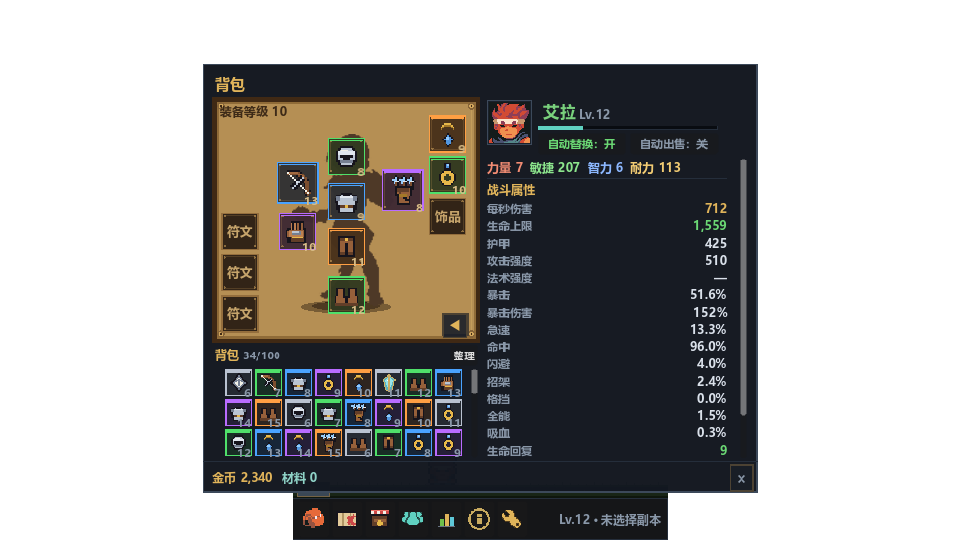
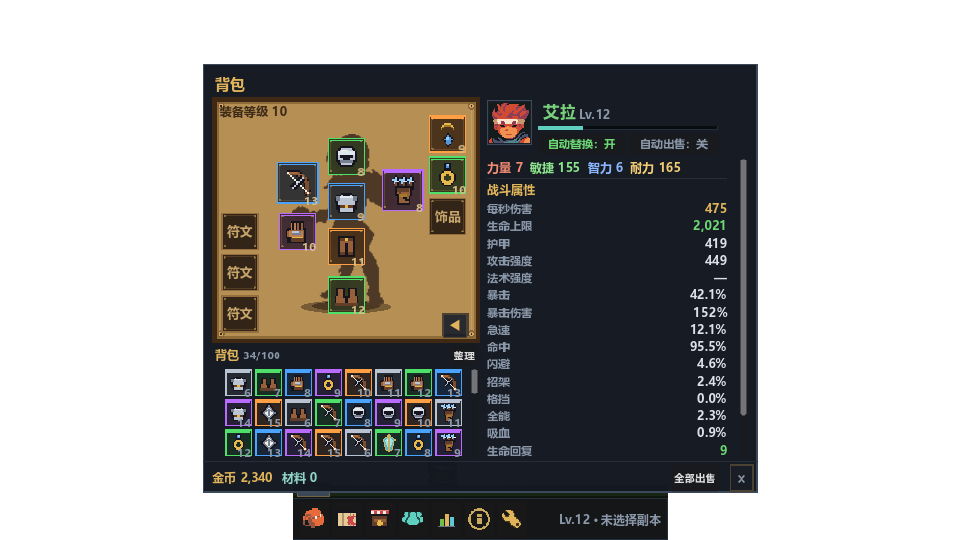
Fix battle floats, level curve, loot and bulk sell

diff --git a/README.md b/README.md
@@ -2,7 +2,7 @@
 
 桌面宠物式像素挂机小游戏。没有技能、没有手动战斗，只有角色天赋、装备词条和一路变强的数字。
 
-- 版本：0.57.0
+- 版本：0.58.0
 - 引擎：Godot 4.7.2（GL Compatibility）
 - 逻辑分辨率：1280 × 720
 - 实际窗口：960 × 540，**无边框、透明、可拖动**
@@ -138,6 +138,8 @@
 
 - 所有存活玩家每回合一起输出
 - 敌人只攻击最前面的角色；前排阵亡后，下一个位置成为目标
+- 每个角色头顶只显示自己受到的伤害；玩家输出数字统一显示在怪物头顶
+- 角色升级时头顶显示「升级！Lv.X」
 - 月辉护盾给最前面的队友；吸血只回复自己
 - 队友站位间距加大，角色精灵和血条不再互相重叠
 - 月辉护盾显示为血条上的半透明蓝白覆盖条，不再单独放在血条上方
@@ -145,13 +147,19 @@
 - 战斗结束后统一复活，没有惩罚；通关时死亡玩家也能获得奖励
 - 每人独立结算金币、经验和装备掉落
 - 敌人按**初始组队人数**缩放：
-  - 攻击：基础攻击 × 人数 × **0.45**（避免前排被秒）
-  - 血量：基础血量 × 人数 × **1.35**（人数越多越耐打）
+  - 攻击：基础攻击 × 人数 × **0.45**
+  - 血量：基础血量 × 人数 × **1.35**
+- 再按**队伍平均等级**与怪物等级差增加压力：
+  - 每高 1 级：生命 +12%、伤害 +10%
+  - 每高 5 级额外跳一档：生命 +55%、伤害 +45%
+  - 因此 8 级队伍挑战 17 级、11 级队伍挑战 30 级会明显吃力
+- 副本等级越高、难度越高，掉落品质会额外上移，更容易出稀有装备
+- 信息窗口改为节流刷新，并限制日志条数，组队战斗时不再反复重建整块日志
 - 房间使用端口 `45872`，局域网发现使用 `45871`；Windows 首次启动可能需要放行防火墙
 
 ## 背包（B）
 
-![背包](shots/v530_bag.png)
+![背包](shots/v550_bag.png)
 
 - 装备展示区改为羊皮纸底、暗色人形剪影和暗棕金边槽位
 - 人形直接使用参考图中提取的剪影素材，并适度放大
@@ -179,6 +187,8 @@
 - 装备区支持 `◀/▶` 收起/展开，收起时左边位置保持不变
 - 初始装备只有新手四件；之前的测试武器已移除
 - 左键装备、右键菜单出售/锁定/分解；自动出售只处理新掉落
+- 底部「全部出售」一键出售背包中所有未锁定且未穿戴的装备
+- 队伍装备信息区显示与背包一致的装备等级 ilvl
 
 ## 商店
 
